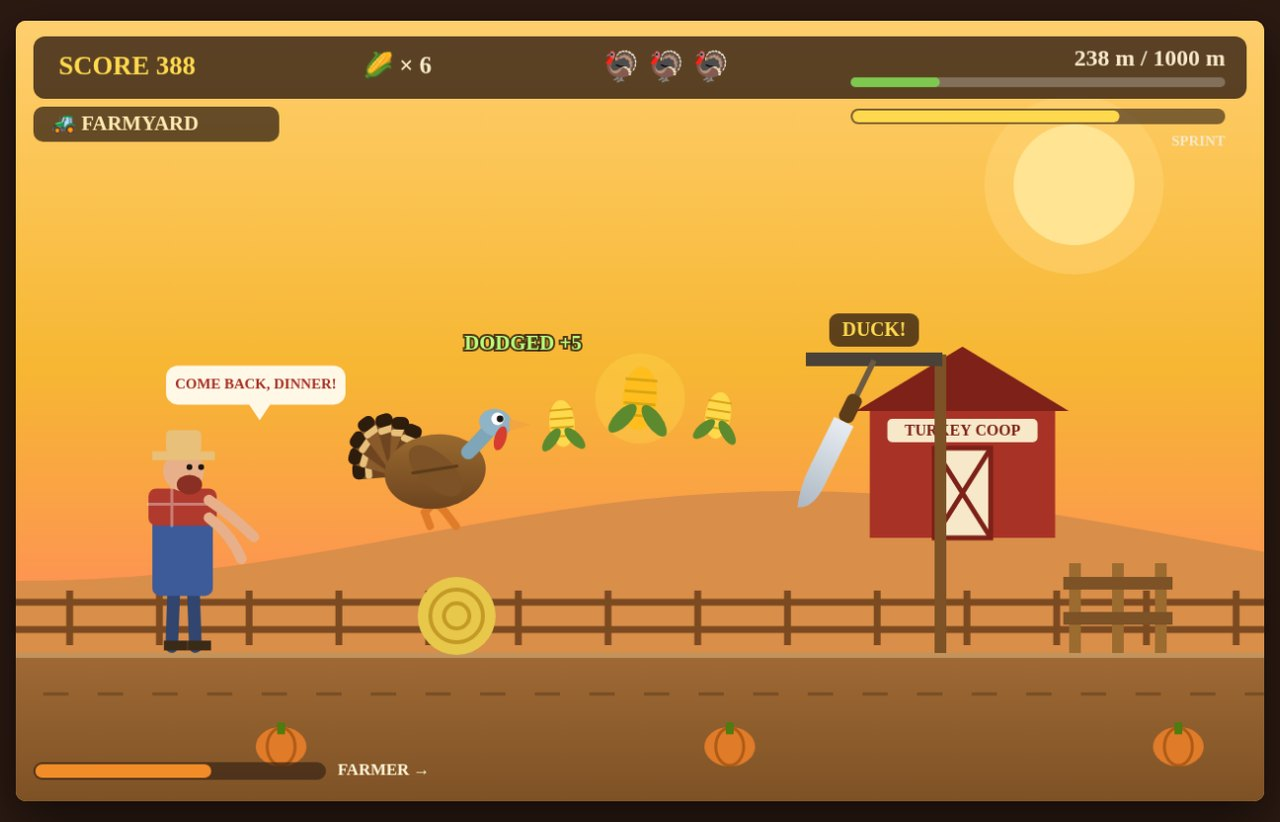
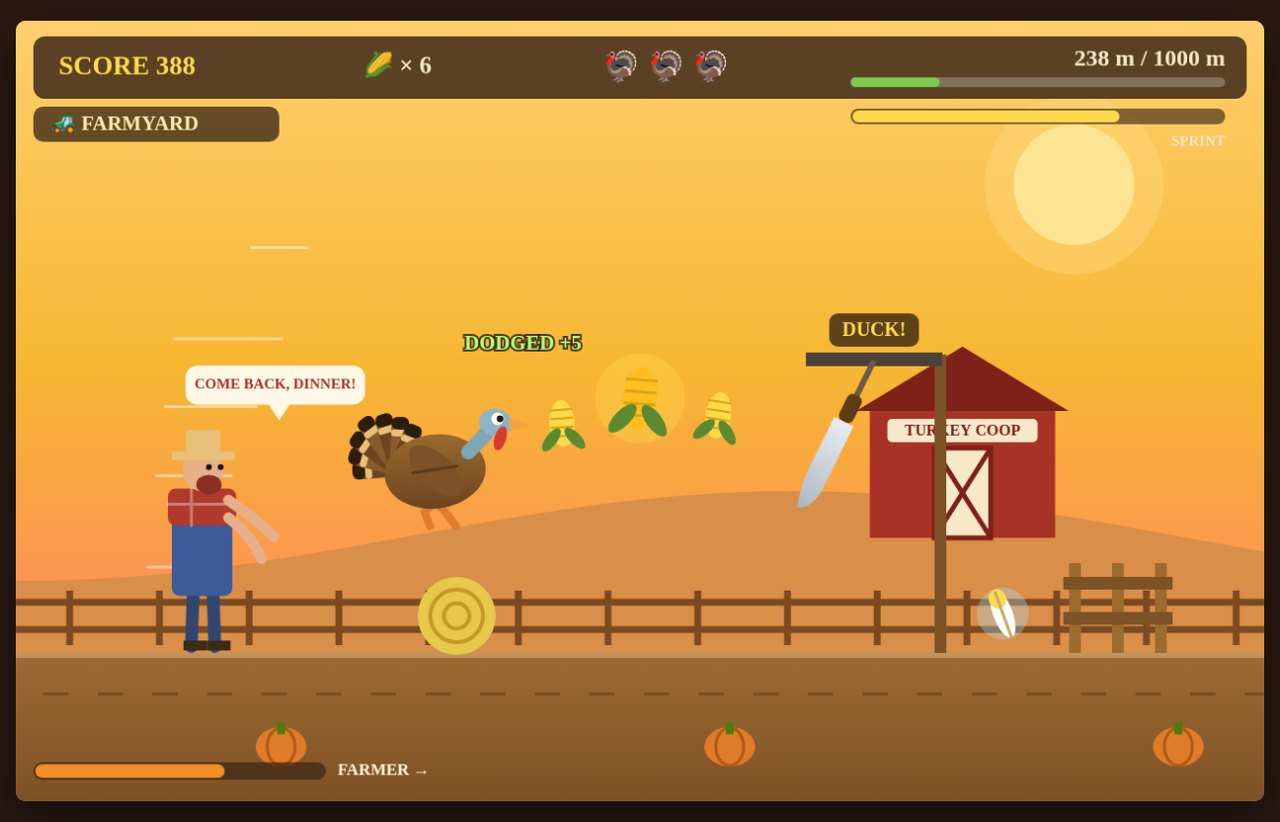
Gobble Run! v3: lucky feather shield, steam, poses

diff --git a/game/src/render.js b/game/src/render.js
@@ -349,6 +349,17 @@ export function drawObstacle(ctx, ob, run) {
         ctx.fillStyle = '#2c2721';
         ctx.beginPath(); ctx.arc(x + bx, GROUND_Y - 127, 11, 0, 6.29); ctx.fill();
       }
+      // steam curling off the top — something is already cooking in there
+      ctx.strokeStyle = 'rgba(255, 248, 231, 0.55)';
+      ctx.lineWidth = 4; ctx.lineCap = 'round';
+      for (let s = 0; s < 3; s++) {
+        const sx = x - 30 + s * 30;
+        const sway = Math.sin(run.time * 2.4 + ob.flame + s * 1.7) * 7;
+        ctx.beginPath();
+        ctx.moveTo(sx, GROUND_Y - 146);
+        ctx.quadraticCurveTo(sx + sway, GROUND_Y - 168, sx - sway, GROUND_Y - 192);
+        ctx.stroke();
+      }
       // glowing door with flames — do NOT become the roast
       ctx.fillStyle = '#ff7b2e';
       roundRect(ctx, x - 44, GROUND_Y - 100, 88, 74, 8); ctx.fill();
@@ -430,6 +441,24 @@ export function drawCorn(ctx, c, time) {
   ctx.restore();
 }
 
+export function drawFeatherPickup(ctx, fd, time) {
+  const y = fd.y + Math.sin(time * 2.6 + fd.bob) * 6;
+  ctx.save();
+  ctx.translate(fd.x, y);
+  // soft halo so the eye catches it at speed
+  ctx.fillStyle = 'rgba(174, 230, 255, 0.32)';
+  ctx.beginPath(); ctx.arc(0, 0, 30 + Math.sin(time * 4 + fd.bob) * 4, 0, 6.29); ctx.fill();
+  ctx.rotate(Math.sin(time * 2 + fd.bob) * 0.3 - 0.5);
+  // one proud white feather, gold-tipped
+  ctx.fillStyle = '#fdfdf8';
+  ctx.beginPath(); ctx.ellipse(0, 0, 10, 26, 0, 0, 6.29); ctx.fill();
+  ctx.fillStyle = '#ffd94d';
+  ctx.beginPath(); ctx.ellipse(0, -16, 9, 10, 0, 0, 6.29); ctx.fill();
+  ctx.strokeStyle = '#c9a86a'; ctx.lineWidth = 3;
+  ctx.beginPath(); ctx.moveTo(0, -24); ctx.lineTo(0, 26); ctx.stroke();
+  ctx.restore();
+}
+
 export function drawParticles(ctx, run) {
   for (const p of run.particles) {
     ctx.globalAlpha = Math.max(0, p.life * 1.6);
@@ -453,6 +482,11 @@ export function drawHud(ctx, run) {
     ctx.globalAlpha = i < run.lives ? 1 : 0.22;
     ctx.fillText('🦃', x, 49);
     ctx.globalAlpha = 1;
+  }
+  if (run.shield) { // the lucky feather rides along until it eats a hit
+    ctx.fillStyle = 'rgba(90, 150, 190, 0.85)';
+    roundRect(ctx, 478, 30, 118, 36, 10); ctx.fill();
+    text(ctx, '🪶 SHIELD', 537, 49, 19, '#eaf7ff');
   }
   text(ctx, `${Math.min(GOAL_METRES, Math.floor(run.metres))} m / ${GOAL_METRES} m`, 1240, 40, 24, '#f7e8c9', 'right');
   // progress to the Wildwood fence
@@ -506,7 +540,7 @@ export function drawTitleScreen(ctx, run, pose) {
   text(ctx, '▶  CLICK or press SPACE to RUN!', 895, 594, 27, '#fff8e7');
   text(ctx, 'SPACE / ↑ jump (twice = flap!) · ↓ duck the knives · → sprint · reach the Wildwood fence at 1,000 m',
     VIEW_WIDTH / 2, 678, 21, '#3d2317');
-  text(ctx, 'Dodge the oven & the carving knife · grab corn (golden = +100!) · hide in haystacks · clean dodges pay +5',
+  text(ctx, 'Dodge the oven & the knife · grab corn (golden = +100!) · a lucky feather eats one hit for you · dodges pay +5',
     VIEW_WIDTH / 2, 710, 21, '#3d2317');
 }
 
@@ -618,8 +652,18 @@ export function drawScene(ctx, run, scroll) {
   }
   for (const ob of run.obstacles) drawObstacle(ctx, ob, run);
   for (const c of run.corns) if (!c.taken) drawCorn(ctx, c, run.time);
+  for (const fd of run.feathers || []) if (!fd.taken) drawFeatherPickup(ctx, fd, run.time);
   drawSpeedLines(ctx, run);
   drawFarmer(ctx, run);
+  if (run.shield) { // a pale ring rides with him while the feather lasts
+    ctx.save();
+    ctx.strokeStyle = 'rgba(174, 230, 255, 0.75)';
+    ctx.lineWidth = 4;
+    ctx.beginPath();
+    ctx.ellipse(TURKEY.x, run.turkey.y - 62, 86, 84, 0, 0, 6.29);
+    ctx.stroke();
+    ctx.restore();
+  }
   drawTurkey(ctx, run);
   drawParticles(ctx, run);
   drawFloaters(ctx, run);

diff --git a/game/src/world.js b/game/src/world.js
@@ -39,6 +39,8 @@ export function createRun() {
     speed: WORLD.baseSpeed,
     obstacles: [],
     corns: [],
+    feathers: [], // lucky-feather pickups: grab one, it eats your next hit
+    shield: false,
     particles: [],
     floaters: [], // little score popups: "+25", "DODGED +5", "GOLDEN! +100"
     dustIn: 0,
@@ -80,6 +82,11 @@ function spawnPattern(run) {
         taken: false, bob: rand() * 6.28, golden: i === goldenAt,
       });
     }
+  }
+  // Now and then a lucky feather drifts onto the lane ahead: run
+  // through it and it will take the next hit for you.
+  if (rand() < 0.17) {
+    run.feathers.push({ x: baseX + 190, y: GROUND_Y - 46, taken: false, bob: rand() * 6.28 });
   }
   const tightness = Math.min(1, run.metres / GOAL_METRES);
   run.nextSpawnIn = 720 + rand() * 430 - tightness * 180;
@@ -158,8 +165,10 @@ export function stepRun(run, input, dt) {
   // --- scroll the world ---------------------------------------------------
   for (const ob of run.obstacles) ob.x -= dx;
   for (const c of run.corns) c.x -= dx;
+  for (const fd of run.feathers) fd.x -= dx;
   run.obstacles = run.obstacles.filter((ob) => ob.x > -220);
   run.corns = run.corns.filter((c) => c.x > -80 && !c.taken);
+  run.feathers = run.feathers.filter((fd) => fd.x > -80 && !fd.taken);
   run.nextSpawnIn -= dx;
   if (run.nextSpawnIn <= 0 && run.metres < GOAL_METRES - 30) spawnPattern(run);
 
@@ -187,6 +196,18 @@ export function stepRun(run, input, dt) {
         run.events.push('corn');
         burstFeathers(run, 3, '#ffd94d');
       }
+    }
+  }
+
+  // --- lucky feather ---------------------------------------------------------
+  for (const fd of run.feathers) {
+    if (!fd.taken && !run.shield
+      && Math.abs(fd.x - TURKEY.x) < 72 && Math.abs(fd.y - (t.y - 46)) < 88) {
+      fd.taken = true;
+      run.shield = true;
+      addFloater(run, 'FEATHER SHIELD!', '#aee6ff');
+      run.events.push('corn');
+      burstFeathers(run, 6, '#aee6ff');
     }
   }
 
@@ -221,16 +242,23 @@ export function stepRun(run, input, dt) {
       if (ob.kind === 'haystack' || ob.passed) continue;
       if (overlaps(box, obstacleBox(ob))) {
         ob.passed = true;
-        run.lives -= 1;
         run.invincibleFor = 1.4;
         run.shake = 1;
-        f.gap -= FARMER.stumbleClose;
         run.events.push('stumble');
-        showBanner(run, ob.kind === 'knife' ? 'SLICED! Mind the carving knife!'
-          : ob.kind === 'oven' ? 'SINGED! Too close to the oven!'
-          : 'WHAM! You stumbled!');
-        burstFeathers(run, 10);
-        if (run.lives <= 0) return catchTurkey(run);
+        if (run.shield) { // the lucky feather eats the hit — no life lost
+          run.shield = false;
+          f.gap -= FARMER.stumbleClose * 0.4;
+          showBanner(run, 'THE FEATHER TOOK THE HIT!');
+          burstFeathers(run, 12, '#aee6ff');
+        } else {
+          run.lives -= 1;
+          f.gap -= FARMER.stumbleClose;
+          showBanner(run, ob.kind === 'knife' ? 'SLICED! Mind the carving knife!'
+            : ob.kind === 'oven' ? 'SINGED! Too close to the oven!'
+            : 'WHAM! You stumbled!');
+          burstFeathers(run, 10);
+          if (run.lives <= 0) return catchTurkey(run);
+        }
         break;
       }
     }

diff --git a/game/src/shots.js b/game/src/shots.js
@@ -19,9 +19,13 @@ export function posedRun(name) {
     run.score = 238 + 6 * 25;
     run.cornEaten = 6;
     run.stamina = 72;
-    run.farmer.gap = 168; // Hank close, shouting, arm stretched
+    run.farmer.gap = 148; // Hank right on his tail, shouting, arm stretched
+    run.sprinting = true; // speed lines sell the pace
     run.turkey.y = GROUND_Y - 128; // mid-leap over the hay bale
     run.turkey.jumpsUsed = 1;
+    run.feathers = [
+      { x: 1012, y: GROUND_Y - 46, taken: false, bob: 2 },
+    ];
     run.obstacles = [
       { kind: 'haybale', x: 452, passed: false },
       { kind: 'knife', x: 880, swing: 1.2, passed: false },
@@ -44,6 +48,7 @@ export function posedRun(name) {
     run.cornEaten = 11;
     run.lives = 2;
     run.stamina = 54;
+    run.shield = true; // the lucky feather is riding with him (ring + HUD pill)
     run.farmer.gap = 236;
     run.turkey.y = GROUND_Y;
     run.turkey.ducking = true; // ducking under the swinging knife
